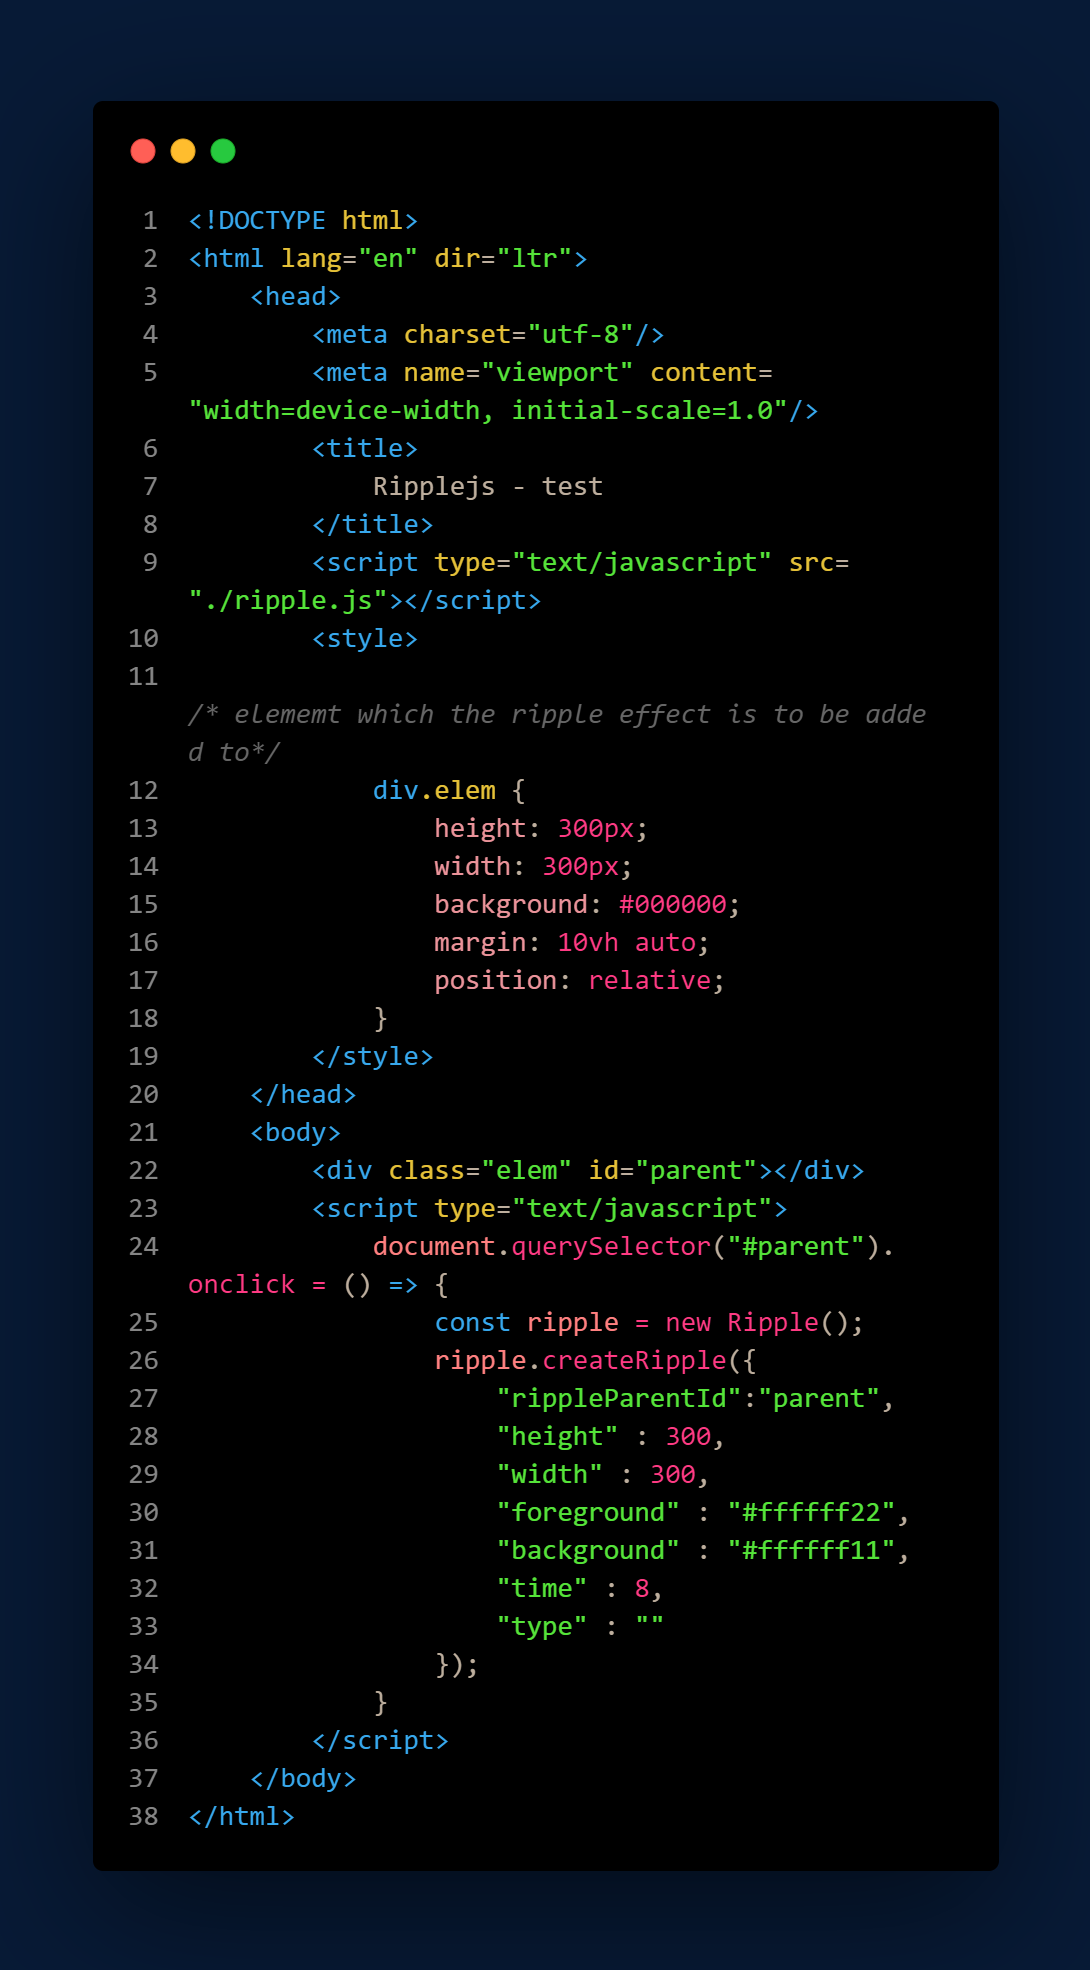
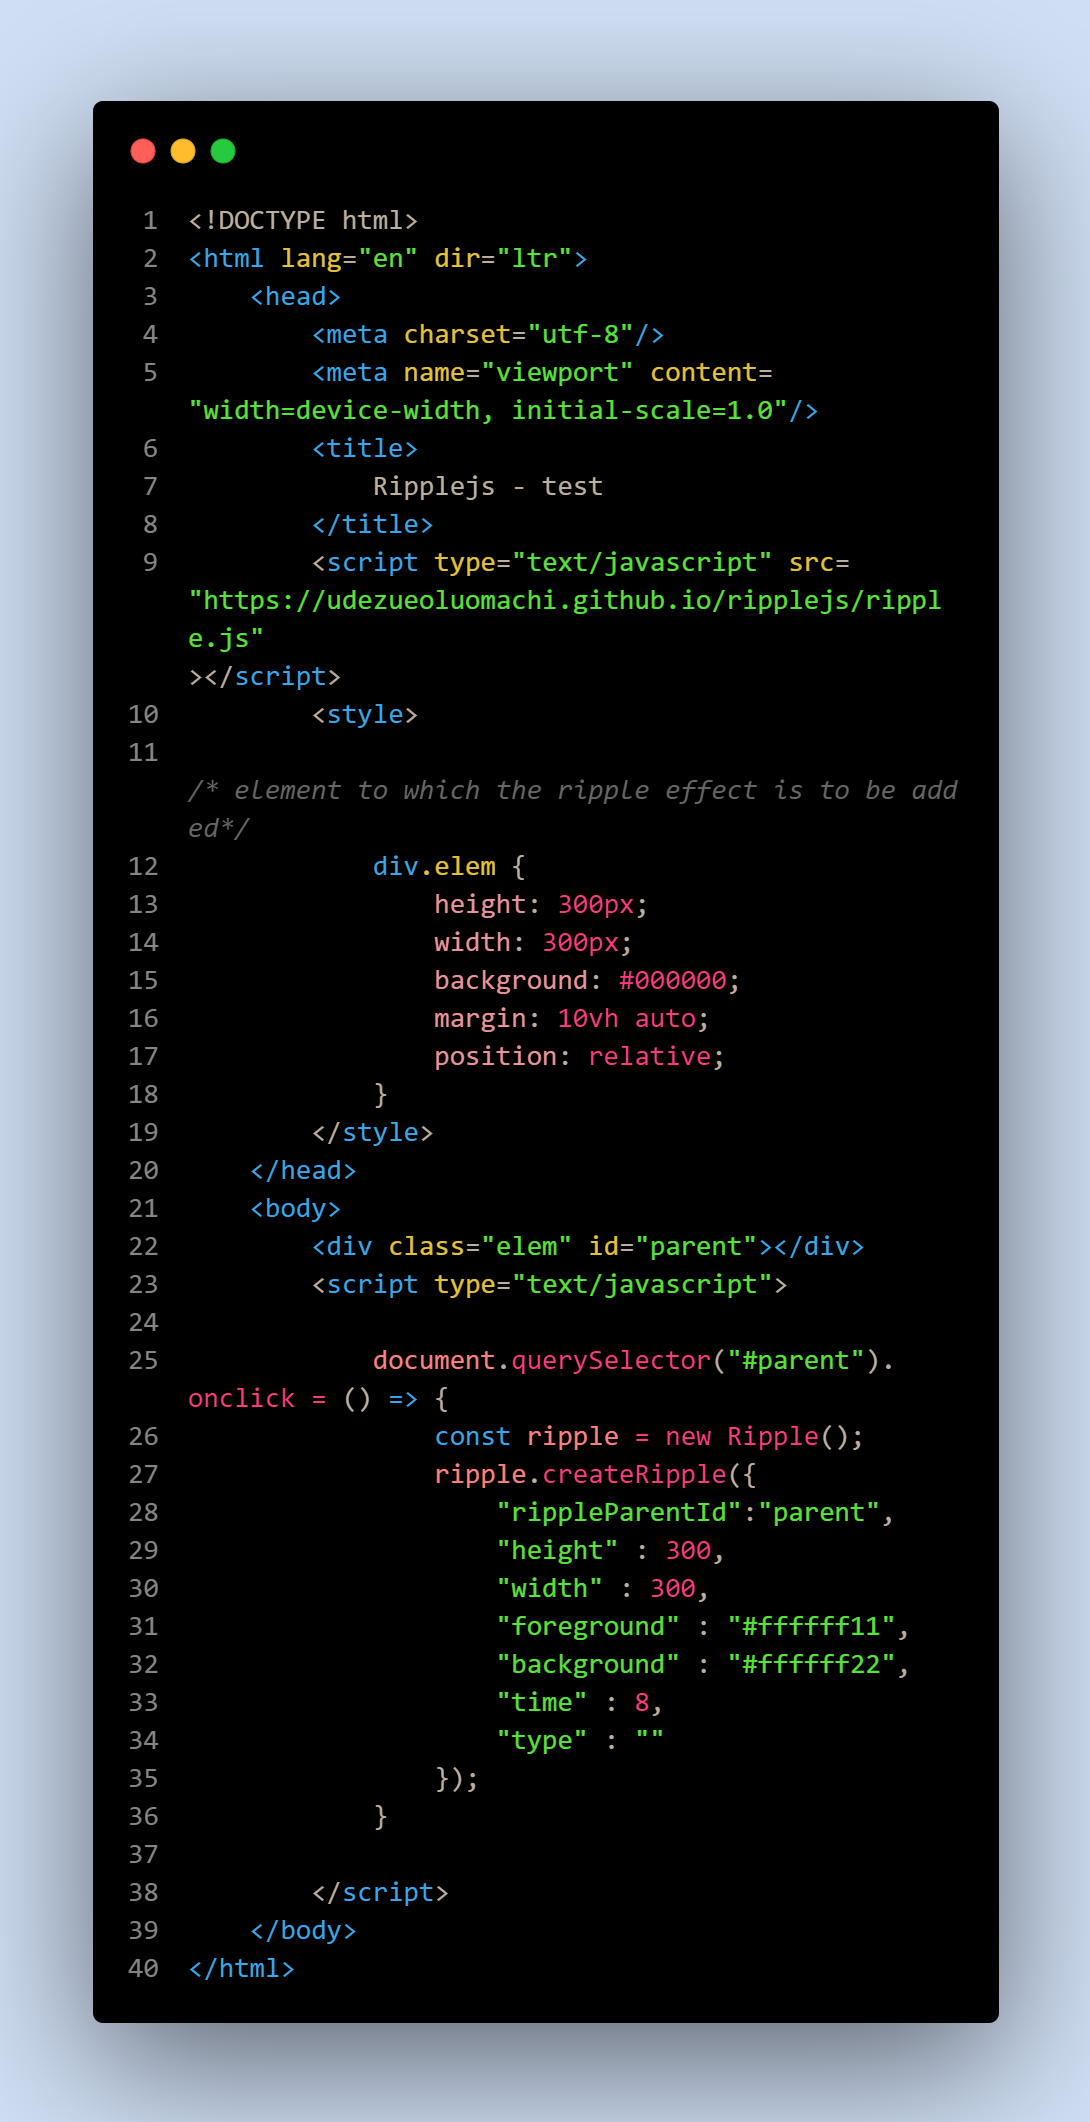
more updates and corrections

diff --git a/index.html b/index.html
@@ -6,8 +6,9 @@
         <title>
             Ripplejs - test
         </title>
-        <script type="text/javascript" src="./ripple.js"></script>
+        <script type="text/javascript" src="https://udezueoluomachi.github.io/ripplejs/ripple.js"></script>
         <style>
+            /* element to which the ripple effect is to be added*/
             div.elem {
                 height: 300px;
                 width: 300px;
@@ -27,10 +28,10 @@
                     "rippleParentId":"parent",
                     "height" : 300,
                     "width" : 300,
-                    "foreground" : "#ffffff22",
-                    "background" : "#ffffff11",
+                    "foreground" : "#ffffff11",
+                    "background" : "#ffffff22",
                     "time" : 8,
-                    "type" : "single"
+                    "type" : ""
                 });
             }
 

diff --git a/README.md b/README.md
@@ -1,10 +1,13 @@
 # About project
 > **Ripplejs** is an _open source_ javascript library created for the purpose of adding _ripple effects_ to html elements based on mouse _events_.
 
+# Live implementation
+[View](https://udezueoluomachi.github.io/ripplejs/)
+
 # How To use
 Ripplejs is pretty easy to use just follow the steps below.
 
-1. Link ripplejs to your project via this _<script type="text/javascript" src="udezue-oluomachi-chimaobi-api.herokuapp.com/ripple.js"></script>_ in the head section of your **HTML** document. Or you can simply **download** the **Ripplejs** source code from this repository and host it yourself or use it locally and of course, you have to add it in the _head section_ of your **HTML** document.
+1. Link ripplejs to your project via this _**<script type="text/javascript" src="https://udezueoluomachi.github.io/ripplejs/ripple.js"></script>**_ in the head section of your **HTML** document. Or you can simply **download** the **Ripplejs** source code from this repository and host it yourself or use it locally and of course, you have to add it in the _head section_ of your **HTML** document.
 
 2. The ripple().createRipple object functions based on mouse events so you have to add a mouse **event listener** to the HTML element you want to add the ripple effect to.
 
